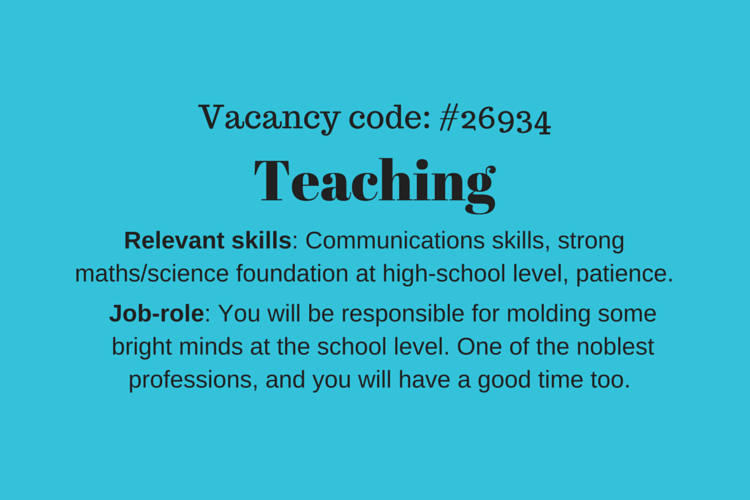
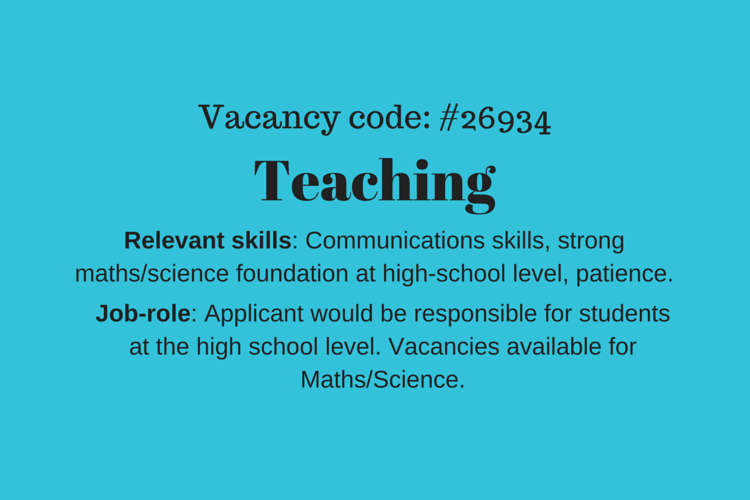
Added new teaching vacancy

Changed region(s): [[0.1227, 0.6, 0.8893, 0.78]]

diff --git a/templates/jobs.html b/templates/jobs.html
@@ -169,6 +169,18 @@
                 <h3>Vacancies:2</h3>
                 <h5></h5>
             </div>
+
+            <div class="col-md-4 col-sm-4 teaching">
+                <a class="fancybox-media" title="Skifer Jobs" href="{%static './img/vacancy5.png'%}">
+                    <!-- Path for image to open -->
+
+                    <img src="{%static './img/vacancy5.png'%}" class="img-responsive " alt="" />
+                    <!-- Path for image to display -->
+                </a>
+                <h3>Vacancies:2</h3>
+                <h5></h5>
+            </div>
+        
         </div>
          <!-- FILTER PORTFOLIO END -->
 
